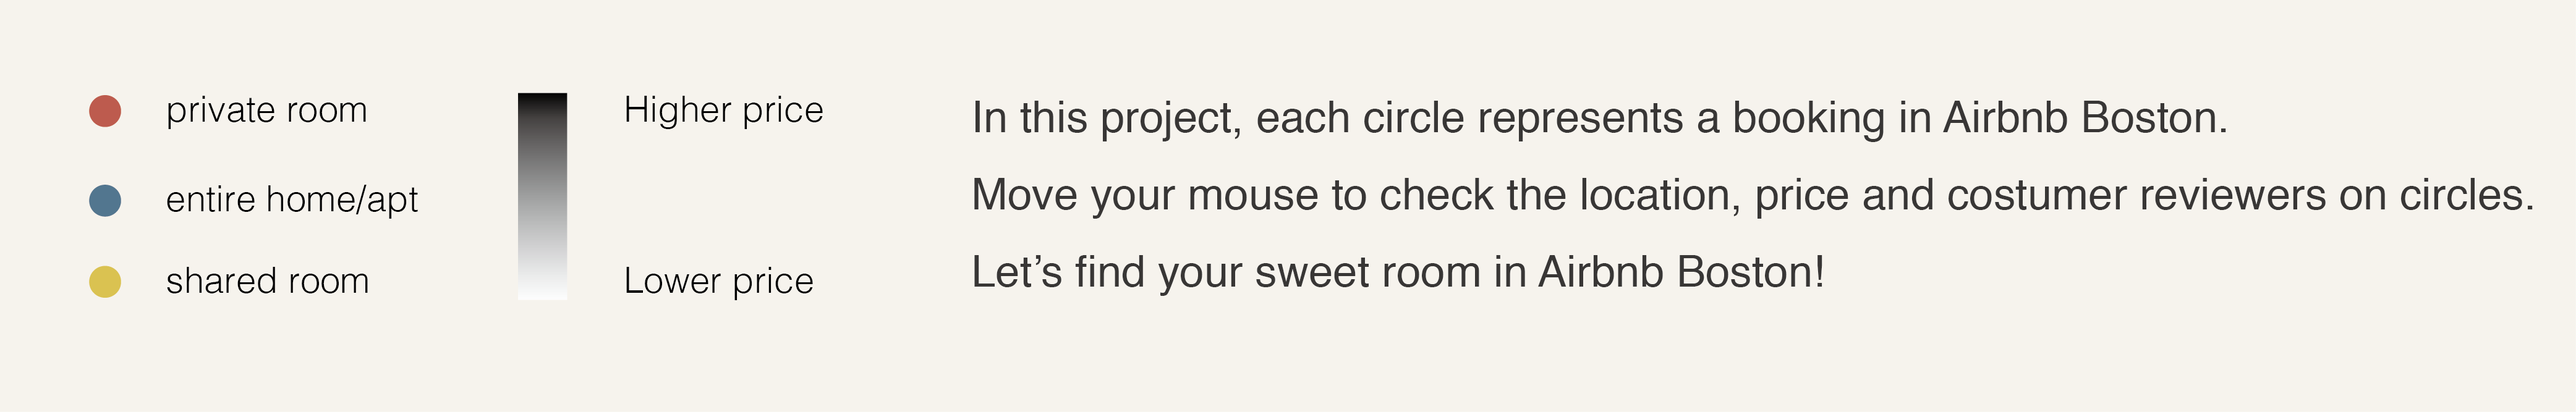
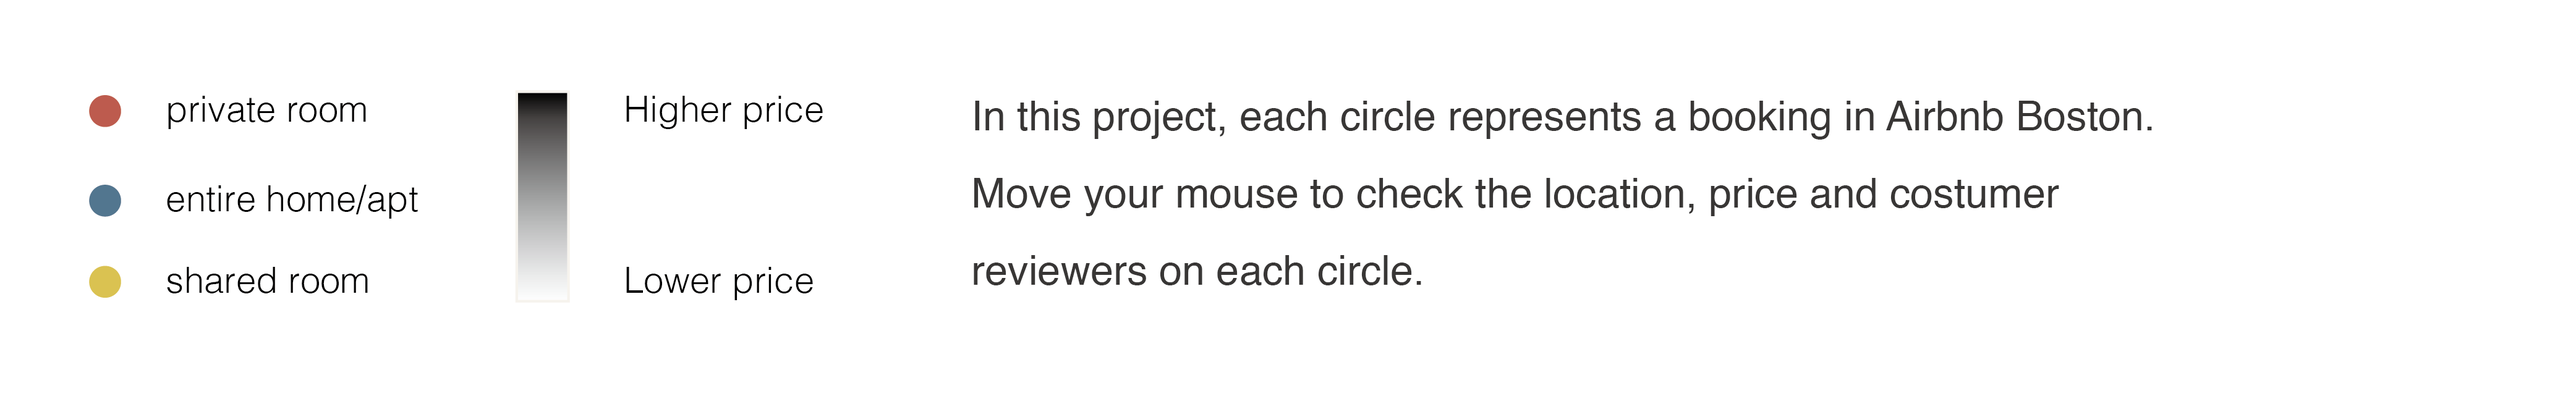
update

Changed region(s): [[0.3744, 0.2399, 0.8735, 0.3298], [0.3744, 0.4198, 0.9983, 0.5097], [0.3744, 0.6297, 0.7175, 0.7196]]

diff --git a/Molly final project/script.js b/Molly final project/script.js
@@ -137,9 +137,11 @@ var roomTypeEnter = roomType.enter()
         var tooltip = d3.select('.custom-tooltip');
            
             tooltip.select('.price')
-                .html('Price : $' + d.price)
+                .html('Price : ' + d.price + " $/d")
             tooltip.select('.location')
-                .html('Location : ' +d.neighbor);
+                .html('Location : ' +d.neighbor)
+            tooltip.select('.bedrooms')
+                .classed('hidden',true);
 
             tooltip.transition().style('opacity',0.8);
 
@@ -176,7 +178,7 @@ roomTypeEnter
    
 
 };
-
+roomTypeEnter.exit().remove(); 
 
 
 //--------------------------     Draw price  dots       -----------------------------------------
@@ -212,9 +214,12 @@ var priceNodeEnter = priceNode.enter()
         var tooltip = d3.select('.custom-tooltip');
            
             tooltip.select('.price')
-                .html('Price : $' + d.price)
+                .html('Price : ' + d.price + " $/d")
             tooltip.select('.location')
-                .html('Location : ' +d.neighbor);
+                .html('Location : ' +d.neighbor)
+            tooltip.select('.bedrooms')
+                .html('Bedrooms : ' +d.bedrooms)
+                .classed('hidden',false);
 
             tooltip.transition().style('opacity',0.8);
 
@@ -263,7 +268,7 @@ priceNodeEnter
    .style("opacity",".55")
 
 }
-
+priceNodeEnter.exit().remove();
 
 //--------------------------  Draw the rooms by town     ---------------------------------------
 
@@ -369,11 +374,13 @@ roomNode.on('click',function(d,i){
         var tooltip = d3.select('.custom-tooltip');
            console.log(tooltip.node())
             tooltip.select('.price')
-                .html('Price : $' + d.price)
-                tooltip.select('.value')
-                .html('reviews : ' +d.reviews)
+                .html('Price : ' + d.price + " $/d")
+            tooltip.select('.value')
+                .html('Reviews : ' +d.reviews)
             tooltip.select('.location')
-                .html('Location : ' +d.neighbor);
+                .html('Location : ' +d.neighbor)
+            tooltip.select('.bedrooms')
+                .classed('hidden',true);
             
 
             tooltip.transition().style('opacity',.8);
@@ -398,7 +405,6 @@ roomNode.on('click',function(d,i){
             d3.select(this).style('stroke-width','0px');
 
             });
-
 
 
 
@@ -454,7 +460,8 @@ function parseData(d){
         lon:+d["longitude"], 
         roomType:d["room_type"],
         reviews:+d["reviews"],
-        roomId: d["room_id"]  
+        bedrooms:+d["bedrooms"],
+        roomId:d["room_id"]  
 
 }
  rate.set(d.id,+d.price);

diff --git a/Molly final project/index.html b/Molly final project/index.html
@@ -8,7 +8,7 @@
 </head>
 <body>
 <div class="container">
-    <h1>Get your sweet room in Airbnb Boston!</h1>
+    <h1>Airbnb's price distribution on Boston</h1>
     <div class="btn-group">
         <div class="btn-primary btn" style="background-color: #585F5D; border-color: #F8F4EF; position: relative; margin: 0px; opacity:0.65; display: inline-block; border-style: solid; border-width: 1px" id="Room_Type">Room Type</div>
         <div class="btn-primary btn" style="background-color: #585F5D; border-color: #F8F4EF; position: relative; margin: 0px; opacity:0.65; display: inline-block; border-style: solid; border-width: 1px" id="Room_Price">Room Price Ranking</div>
@@ -21,9 +21,10 @@
     </section>
 
     <div class="custom-tooltip">
-        <p class="price"></h3>
-        <p class="location"></h3>
-        <p class="value"></h3>
+        <p class="price"></p>
+        <p class="location"></p>
+        <p class="value"></p>
+        <p class="bedrooms"></p>
     </div>
 </div>
 

diff --git a/global.css b/global.css
@@ -1,5 +1,5 @@
 body{
-   background:#F8F4EF;
+   background:#FFFFFF;
    color:#585F5D;
 }
 
@@ -17,7 +17,7 @@ body{
     width:150px;
     min-height:20px;
     padding:10px 5px;
-    background: #5B5B5B;
+    background: #C94754;
    
     box-shadow: 0 2px 2px 0px rgba(0,0,0,.1);
     top:0;
@@ -38,6 +38,13 @@ body{
 
     }
     .custom-tooltip .value{
+        font-size:0.9em;
+        font-weight:solid;
+        color: #F8F4EF;
+
+
+    }
+      .custom-tooltip .bedrooms{
         font-size:0.9em;
         font-weight:solid;
         color: #F8F4EF;

diff --git a/Molly final project/style.css b/Molly final project/style.css
@@ -18,13 +18,16 @@
    
 
 }
+.hidden{
+    display: none;
+}
 
 .btn-group{
 	top:10px;
 }
 
 .legend{
-	margin-left:700px;
+	margin-left:650px;
 	margin-top:-110px;
 }
 
